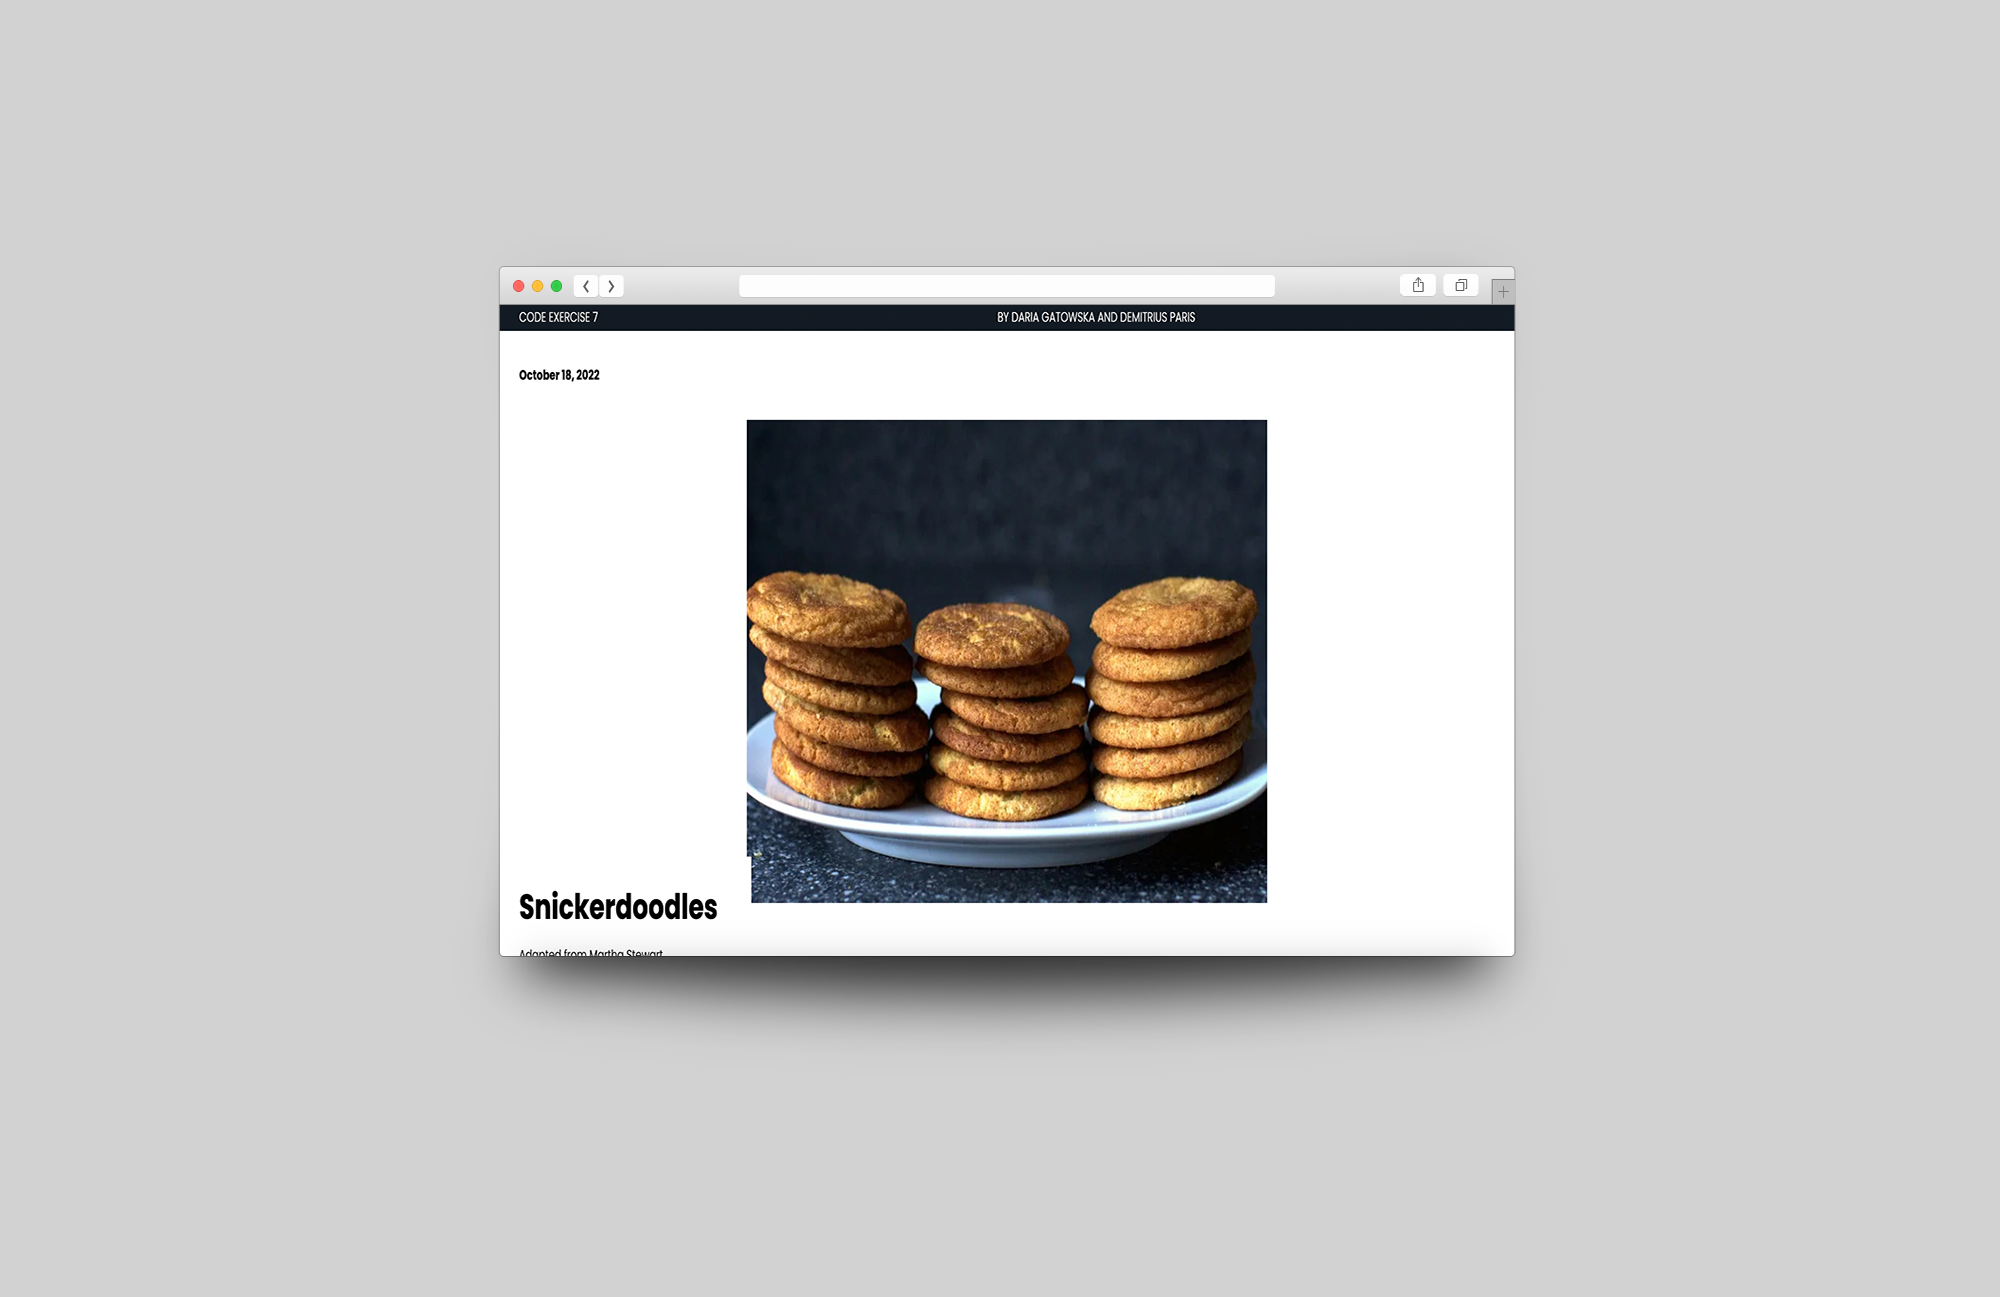
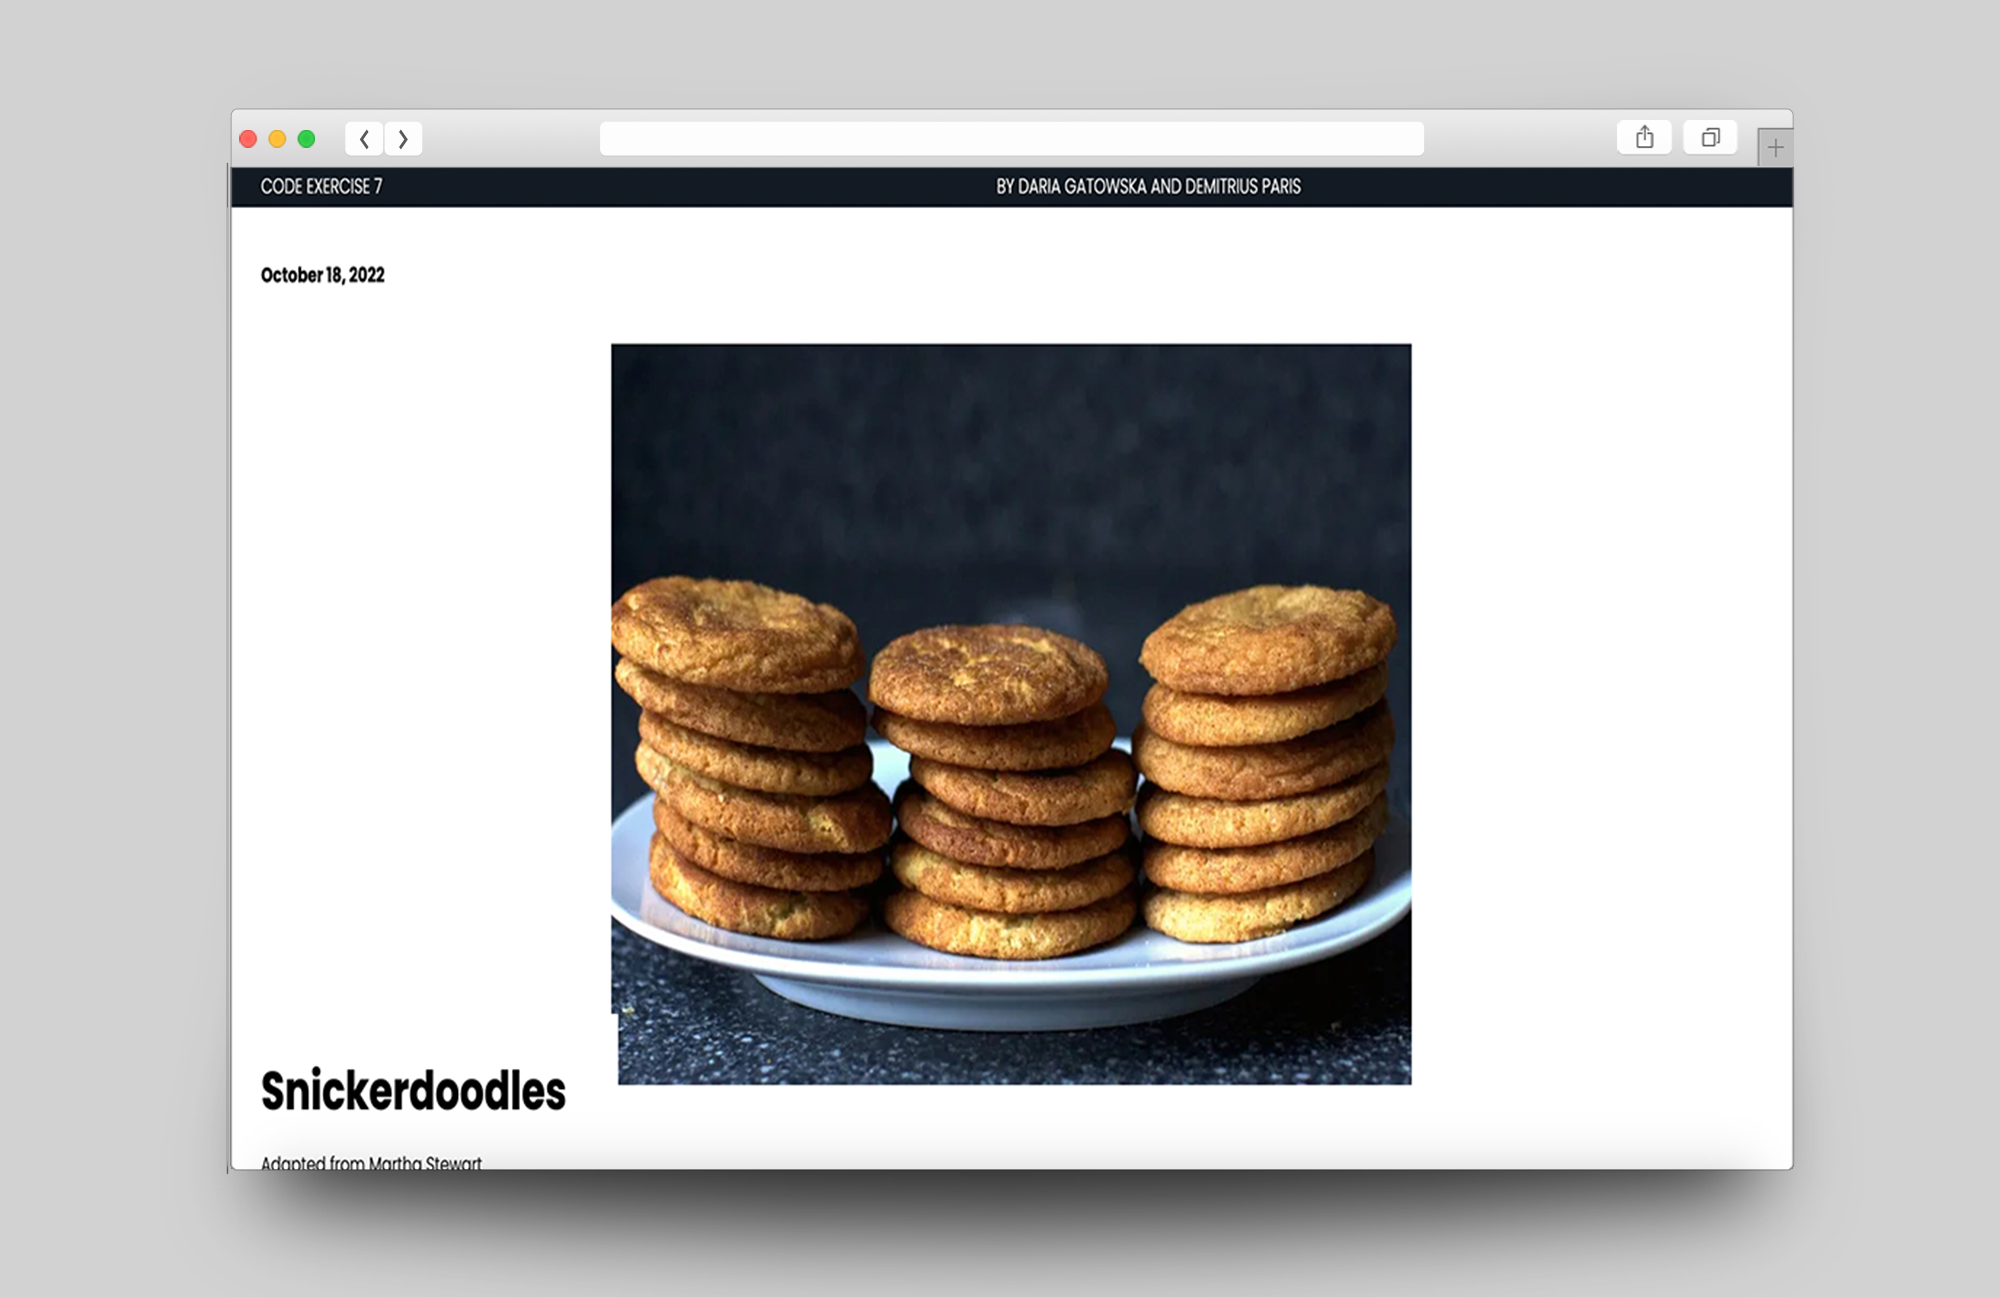
ugh

diff --git a/program-book/css/styles.css b/program-book/css/styles.css
@@ -17,9 +17,9 @@ h1 {
     font-size: 18px;
     font-weight: 900;
     color: #595959;
-    padding-left: 1000px;
-    padding-right: 60px;
-    padding-bottom: 1.5rem;
+    padding-left: 100px;
+    padding-right: 40px;
+    padding-top: 1.5rem;
     
 }
 
@@ -52,11 +52,12 @@ h3 {
 }
 
 h4 {
-    font-size: 32px;
+    font-size: 25px;
     font-weight: 900;
     color: #595959;
-    padding-right: 25rem;
-    padding-left: 10rem;
+    text-align: left;
+    padding-right: 2rem;
+    padding-left: 6rem;
     padding-top: 10rem;
     
 }
@@ -182,16 +183,26 @@ nav a {
 /* p3 */ 
 
 .codepenimages {
-    scale: 92%;
     display: grid;
     grid-template-columns: 1fr 1fr;
     gap: 9rem;
-    box-shadow: #595959 5;
 }
 
 /* Home Project Template (.home h1...) */ 
 
 
 @media screen and (min-width: 600px) {
-    
+    h4 {
+        text-align: left;
+        padding: 50px;
+    }
+
+    .codepenimages {
+        display: grid;
+        grid-template-columns: 1fr 1fr;
+        gap: 9rem;
+
+    }
+
+
 }

diff --git a/program-book/project-6.html b/program-book/project-6.html
@@ -64,6 +64,7 @@
 
 
 
+
   <h4>Responsive Architects</h4>
   <p> Coded a responsive website called Responsive Architects with guidance using various coding and publishing systems. </p>
 
